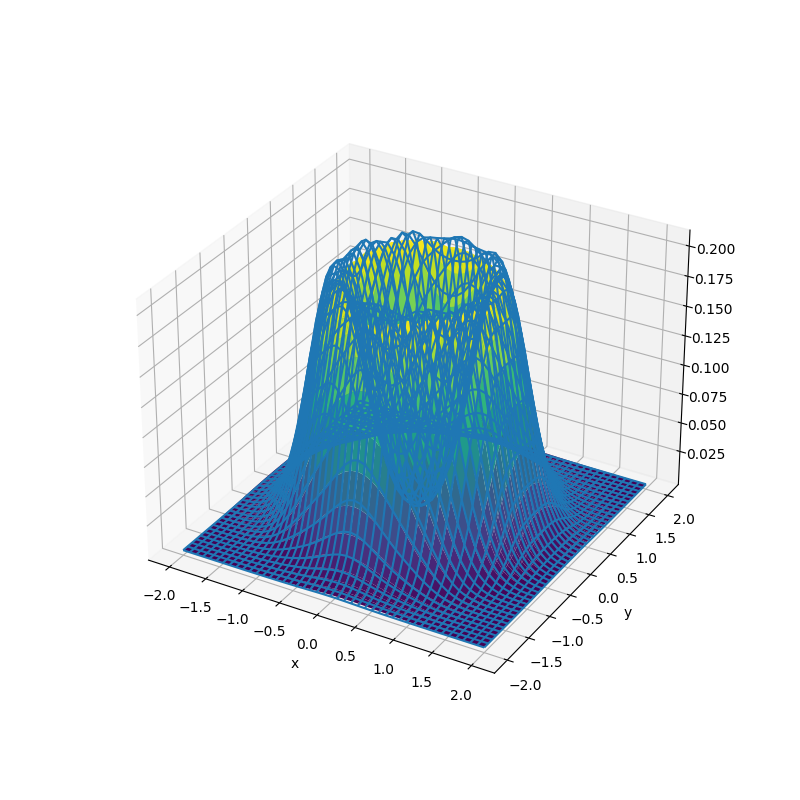
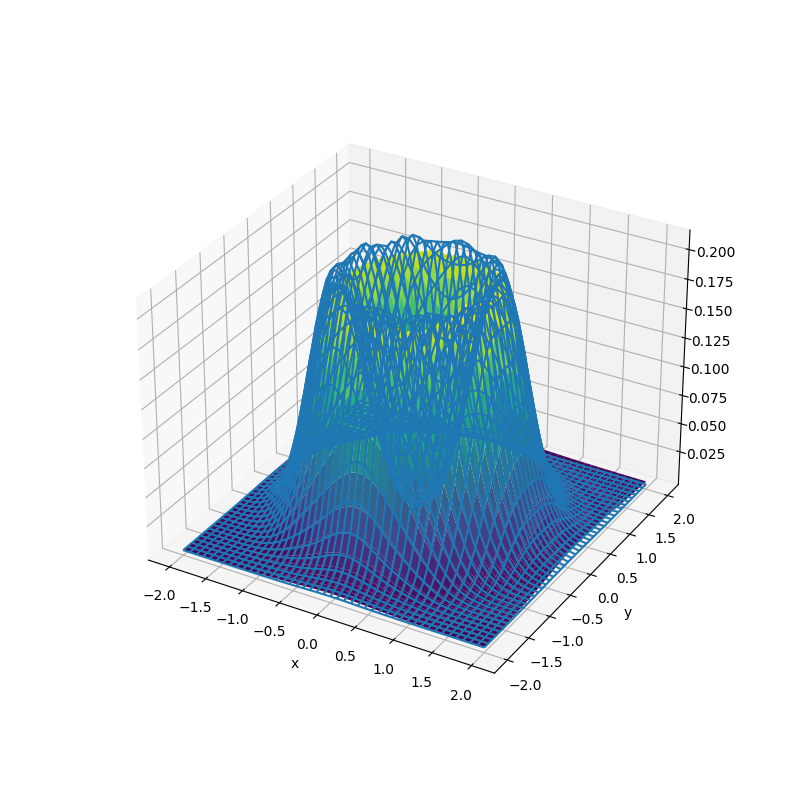
compute_normalizer added in jko_solver

diff --git a/modules/jko_solver.py b/modules/jko_solver.py
@@ -2,6 +2,7 @@ import tensorflow as tf
 import numpy as np
 import tables
 import wasserstein as ws
+import vegas
 
 class JKOSolver(tf.keras.models.Model):
     """
@@ -27,6 +28,7 @@ class JKOSolver(tf.keras.models.Model):
         self.sinkhorn_iters = sinkhorn_iters
         self.current_time = 0
         super().__init__(name=name, dtype=dtype)
+        self.normalizer = 1.0
 
     def prepare(self):
         """
@@ -112,6 +114,7 @@ class JKOSolver(tf.keras.models.Model):
                 optimizer.apply_gradients(zip(grads, self.trainable_weights))
             
 
+    #@tf.function
     def learn_unnormalized_density(self, ensemble, weights, epochs=10, initial_rate=1e-3):
         """
         Description:
@@ -126,14 +129,10 @@ class JKOSolver(tf.keras.models.Model):
         cost = ws.compute_cost_matrix(self.curr_ref_pts.numpy(), self.curr_ref_pts.numpy(), p=2)
         self.curr_cost = tf.convert_to_tensor(cost, dtype=self.dtype)
         optimizer = tf.keras.optimizers.Adam(learning_rate=initial_rate)
-        #print(self.curr_cost)
-        #print(self.curr_ref_pts)
-        #print(True in tf.math.is_nan(tf.reshape(self.curr_cost, (-1,))))
         for epoch in range(epochs):
             with tf.GradientTape() as tape:
                 self.curr_weights = tf.reshape(self.call(self.curr_ref_pts), (-1,))
-                #self.curr_weights /= tf.reduce_sum(self.curr_weights)
-                #print(self.curr_weights)
+                self.curr_weights /= tf.reduce_sum(self.curr_weights)
                 loss = ws.sinkhorn_loss(self.curr_ref_pts, self.curr_ref_pts, self.curr_weights, self.prev_weights, self.curr_cost,\
                                          epsilon=self.sinkhorn_epsilon, num_iters=self.sinkhorn_iters)
                 print('epoch = {}, Sinkhorn loss = {}'.format(epoch + 1, loss.numpy()))
@@ -174,3 +173,19 @@ class JKOSolver(tf.keras.models.Model):
                     break
                 grads = tape.gradient(loss, self.trainable_weights)
                 optimizer.apply_gradients(zip(grads, self.trainable_weights))
+
+    def compute_normalizer(self, domain, nitn=10, neval=200):
+        """
+        Description:
+            calculates normalizing constant using Vegas algorithm
+
+        Args:
+            domain: box domain over which to compute the integral
+            nitn: number of Vegas iterations
+            neval: number of function evaluations per iteration
+        """
+        integrator = vegas.Integrator(domain)
+        def integrand(x, n_dim=None, weight=None):
+            return self.call(tf.convert_to_tensor([x], dtype=self.dtype)).numpy()[0][0]
+        self.normalizer = integrator(integrand, nitn=nitn, neval=neval).mean
+        

diff --git a/modules/quad.py b/modules/quad.py
@@ -1,7 +1,7 @@
 #import tensorflow as tf
 import numpy as np
 import scipy.stats as ss
-import tensorflow_probability as tfp
+#import tensorflow_probability as tfp
 
 def polar_2(nn, ensemble):
     #transform the ensemble into polar coordinates
@@ -12,16 +12,23 @@ def polar_2(nn, ensemble):
 
 
 def quad_2(func, ensemble):
-   return  2.0 * np.pi * np.mean(func(ensemble) * (1.0 + ensemble[:, 0]**2) * (1.0 + ensemble[:, 1]**2))
+   return  np.pi**2 * (func(ensemble) * (1.0 + ensemble[:, 0]**2) * (1.0 + ensemble[:, 1]**2)).sum() / len(ensemble)
 
+def quad_3(func, ensemble):
+    x = ensemble[:, 0]
+    y = ensemble[:, 1]
+
+    r = np.sqrt(x**2 + y**2)
+
+    return 0.25 * np.pi**3 * (func(ensemble) * r *  (1 + r**2)).sum() / len(ensemble) 
 
 dim = 2
 mean = np.zeros(dim)
 cov = np.identity(dim)
 ensemble = np.random.multivariate_normal(mean, cov, size=2000)
 func = lambda x: ss.multivariate_normal.pdf(x, mean=mean, cov=cov)
-print(quad_2(func, ensemble))
-
+print(quad_3(func, ensemble))
+"""
 print(tfp.monte_carlo.expectation(func, ensemble))
 log_func = lambda x: np.log(ss.multivariate_normal.pdf(x, mean=mean, cov=cov))
 tfp.mcmc.NoUTurnSampler(log_func, 0.1)
@@ -35,10 +42,7 @@ import tensorflow_probability as tfp
 tfd = tfp.distributions
 
 def integrand(x, **kwargs):
-    """ Function:
-       x_{1} * x_{2} ... * x_{n}
-       x: array of dimension (events, n)
-    """
+
     return ss.multivariate_normal.pdf(x, mean=mean, cov=cov)
 
 mvn = tfd.MultivariateNormalDiag(
@@ -55,3 +59,4 @@ integ = vegas.Integrator([[-5, 5], [-5, 5]])
 
 result = integ(integrand, nitn=10, neval=200)
 print(result.mean, type(result.mean))
+"""

diff --git a/module_tests/jko_lstm_test.py b/module_tests/jko_lstm_test.py
@@ -45,9 +45,6 @@ solver = jko.JKOLSTM(30, 4, psi, beta, ens_file, cost_file, sinkhorn_iters=50)
 solver(ensemble)
 solver.summary()
 
-from vegasflow import VegasFlow
-n_calls = int(200)
-vegas_instance = VegasFlow(dimension, n_calls)
 
 class SolverDensity(tf.keras.models.Model):
     def __init__(self):
@@ -59,6 +56,7 @@ class SolverDensity(tf.keras.models.Model):
             #print(y)
             return y
         self.c = integ(integrand, nitn=10, neval=200).mean
+        print(self.c)
         
     def call(self, x):
         return solver(x) / self.c
@@ -67,6 +65,8 @@ class SolverDensity(tf.keras.models.Model):
 plotter = pltr.JKOPlotter(funcs=[solver, real_density], space=2.0*np.array([[-1.0, 1.0], [-1.0, 1.0]]), num_pts_per_dim=45)
 plotter.plot('images/lstm_before.png')
 solver.learn_unnormalized_density(ensemble, weights, epochs=350, initial_rate=0.001)
-solver_density = SolverDensity()
-plotter = pltr.JKOPlotter(funcs=[solver_density, real_density], space=2.0*np.array([[-1.0, 1.0], [-1.0, 1.0]]), num_pts_per_dim=45)
+domain = 2.5 * np.array([[-1.0, 1.0], [-1.0, 1.0]])
+solver.compute_normalizer(domain)
+#SolverDensity()
+plotter = pltr.JKOPlotter(funcs=[solver, real_density], space=2.0*np.array([[-1.0, 1.0], [-1.0, 1.0]]), num_pts_per_dim=45)
 plotter.plot('images/lstm_after.png')

diff --git a/modules/jko_lstm.py b/modules/jko_lstm.py
@@ -56,5 +56,5 @@ class JKOLSTM(jko.JKOSolver):
             h, c = self.lstm_layers[i](x, h, c)
             h = self.batch_norm(h)
             c = self.batch_norm(c)
-        return self.final_dense(h)
+        return self.final_dense(h) / self.normalizer
 
